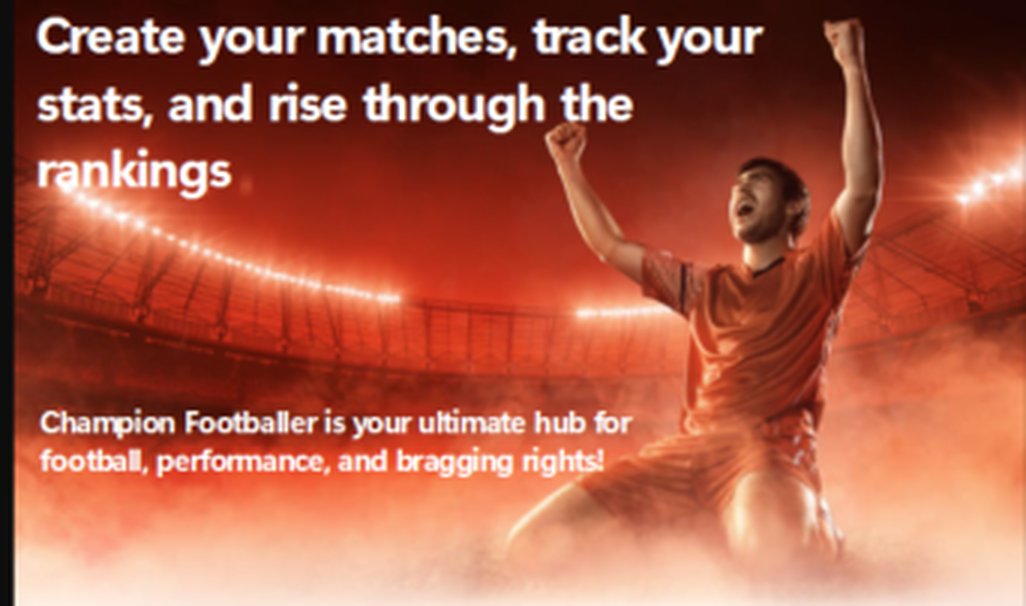
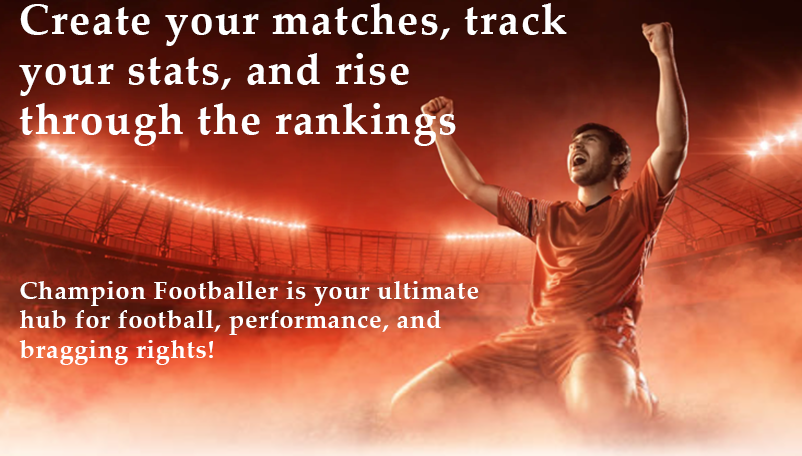
changes

diff --git a/src/app/_compoents/page.tsx b/src/app/_compoents/page.tsx
@@ -8,10 +8,10 @@ import Layer from '@/Components/images/championfootballnewlogo.webp';
 import NewImg from '@/Components/images/Done1.webp';
 import Newimg from '@/Components/images/Done2.webp';
 import mobile from '@/Components/images/mobile.webp';
-import heroTopBg from '@/Components/images/hero_top_bg.webp';
-import heroGridOrange from '@/Components/images/hero_grid_orange.webp';
-import heroGridTeam1 from '@/Components/images/hero_grid_team1.webp';
-import heroGridTeam2 from '@/Components/images/hero_grid_team2.webp';
+import heroTopBg from '@/Components/images/hero_top_bg.png';
+import heroGridOrange from '@/Components/images/hero_grid_orange.png';
+import heroGridTeam1 from '@/Components/images/hero_grid_team1.png';
+import heroGridTeam2 from '@/Components/images/hero_grid_team2.png';
 import image9 from '@/Components/images/1stpicc.webp';
 import image10 from '@/Components/images/2ndpicc.webp';
 import image11 from '@/Components/images/3rdpicc.webp';
@@ -95,18 +95,13 @@ export default function LandingPage() {
                   <Image
                     src={heroTopBg}
                     alt="Create your matches, track your stats, and rise through the rankings"
-                    fetchPriority="high"
+                    fill
+                    priority
                     loading="eager"
-                    decoding="async"
-                    style={{
-                      position: 'absolute',
-                      height: '100%',
-                      width: '100%',
-                      top: 0,
-                      left: 0,
-                      objectFit: 'cover',
-                      objectPosition: 'center',
-                    }}
+                    fetchPriority="high"
+                    sizes="(max-width: 600px) 100vw, (max-width: 1200px) 90vw, 1920px"
+                    style={{ objectFit: 'cover', objectPosition: 'center' }}
+                    quality={100}
                   />
                 </Box>
 
@@ -130,13 +125,13 @@ export default function LandingPage() {
                     }}
                   >
                     <Image
-                      src={heroGridOrange.src}
+                      src={heroGridOrange}
                       alt="Players Celebrating"
                       fill
                       loading="lazy"
-                      sizes="(max-width: 600px) 50vw, (max-width: 900px) 50vw, 32vw"
+                      sizes="(max-width: 600px) 50vw, (max-width: 1200px) 50vw, 800px"
                       style={{ objectFit: 'cover', objectPosition: 'center' }}
-                      quality={75}
+                      quality={100}
                     />
                   </Box>
 
@@ -151,13 +146,13 @@ export default function LandingPage() {
                     }}
                   >
                     <Image
-                      src={heroGridTeam1.src}
+                      src={heroGridTeam1}
                       alt="Football Team Squad"
                       fill
                       loading="lazy"
-                      sizes="(max-width: 600px) 50vw, (max-width: 900px) 50vw, 32vw"
+                      sizes="(max-width: 600px) 50vw, (max-width: 1200px) 50vw, 800px"
                       style={{ objectFit: 'cover', objectPosition: 'center' }}
-                      quality={75}
+                      quality={100}
                     />
                   </Box>
 
@@ -200,13 +195,13 @@ export default function LandingPage() {
                     }}
                   >
                     <Image
-                      src={heroGridTeam2.src}
+                      src={heroGridTeam2}
                       alt="Team Celebrating Victory"
                       fill
                       loading="lazy"
-                      sizes="(max-width: 600px) 50vw, (max-width: 900px) 50vw, 32vw"
+                      sizes="(max-width: 600px) 50vw, (max-width: 1200px) 50vw, 800px"
                       style={{ objectFit: 'cover', objectPosition: 'center' }}
-                      quality={75}
+                      quality={100}
                     />
                   </Box>
                 </Box>
@@ -491,14 +486,14 @@ export default function LandingPage() {
                       src={f.img}
                       alt={f.title}
                       fill
-                      sizes="(max-width: 600px) 90vw, 25vw"
+                      sizes="(max-width: 600px) 90vw, 400px"
                       style={{
                         objectFit: 'contain',
                         objectPosition: 'center center',
                         padding: '8px 14px',
                       }}
                       loading="lazy"
-                      placeholder="blur"
+                      quality={100}
                     />
                   </Box>
                 </Box>

diff --git a/src/app/_compoents/logonavbar.tsx b/src/app/_compoents/logonavbar.tsx
@@ -28,14 +28,15 @@ function LogoNavbar() {
         >
           <Box sx={{ width: { xs: 250, sm: 340, md: 700 } }}>
             <Image
-              src={Layer.src}
+              src={Layer}
               alt="Champion Footballer Logo"
               width={700}
               height={130}
-              fetchPriority="high"
-              loading="eager"
-              decoding="async"
+              sizes="(max-width: 600px) 340px, 700px"
               style={{ width: '100%', height: 'auto', display: 'block' }}
+              priority
+              fetchPriority="high"
+              quality={95}
             />
           </Box>
         </Box>
